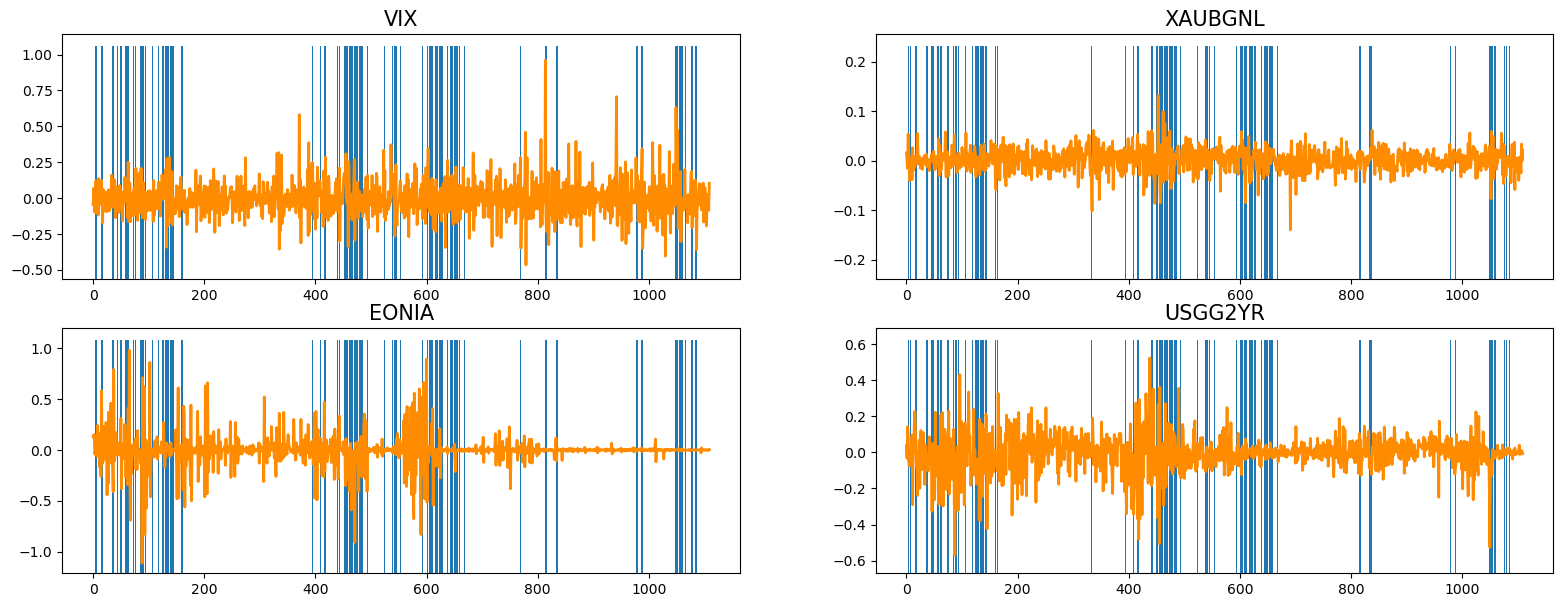
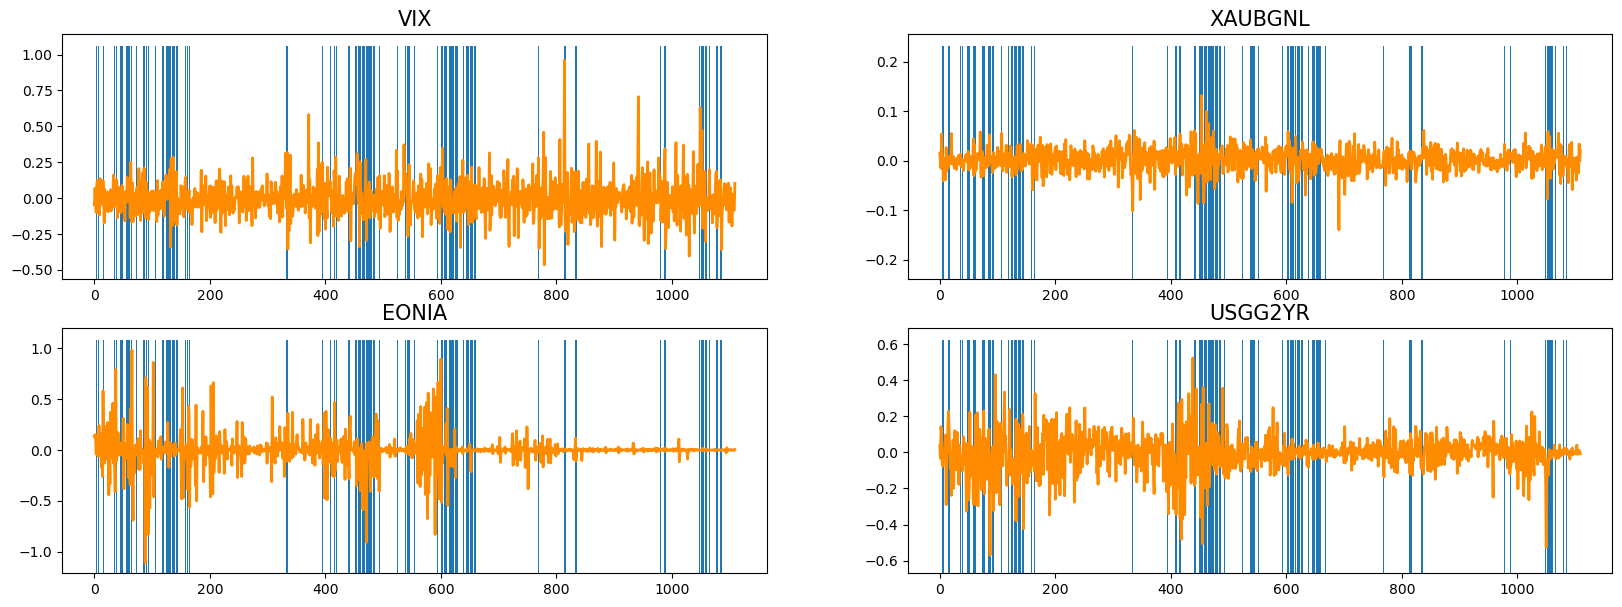
readme

diff --git a/plotter.py b/plotter.py
@@ -105,12 +105,40 @@ for i in range(2):
         axs[i,j].bar(x=anomaly_indices, height=ub, bottom = lb)
         axs[i,j].set_title(feature_name_2, fontsize=15)
         count += 1
-plt.show()
+# plt.show()
 fig.savefig('plots' + os.sep + 'VIX_XAUBGNL_EONIA_USGG2YR_stationary', bbox_inches='tight')
 
+plot_names=['BDIY', 'CRY', 'EONIA', 'GTDEM2Y', 'GTGBP2Y', 'MXBR', 'MXEU', 'MXUS', 'USGG2YR', 'VIX']
 
+fig, axs = plt.subplots(2, 5, figsize = (20,7))
+count = 0
+for i in range(2):
+    for j in range(5):
+        feature_name_2 = plot_names[count]
+        axs[i,j].plot(d[feature_name_2], linewidth = 2, color = "darkorange")
+        anomaly_indices=np.argwhere(y_cat[:,0] == 1)[:,0]
+        lb = np.min(d[feature_name_2])-0.1
+        ub = np.abs(lb) + np.max(d[feature_name_2])+0.1
+        axs[i,j].bar(x=anomaly_indices, height=ub, bottom = lb)
+        axs[i,j].set_title(feature_name_2, fontsize=15)
+        count += 1
+plt.show()
+fig.savefig('plots' + os.sep + 'final_features', bbox_inches='tight')
 
-
+fig, axs = plt.subplots(2, 5, figsize = (20,7))
+count = 0
+for i in range(2):
+    for j in range(5):
+        feature_name_2 = plot_names[count]
+        axs[i,j].plot(df_stat[feature_name_2], linewidth = 1, color = "darkorange")
+        anomaly_indices=np.argwhere(y_cat[:,0] == 1)[:,0]
+        lb = np.min(df_stat[feature_name_2])-0.1
+        ub = np.abs(lb) + np.max(df_stat[feature_name_2])+0.1
+        axs[i,j].bar(x=anomaly_indices, height=ub, bottom = lb)
+        axs[i,j].set_title(feature_name_2, fontsize=15)
+        count += 1
+plt.show()
+fig.savefig('plots' + os.sep + 'final_features_stationary', bbox_inches='tight')
 
 
 

diff --git a/README.md b/README.md
@@ -20,7 +20,16 @@ Feel free to visit [this link](https://github.com/MicheleDiSabato/detecting-abno
 
 The dataset is composed of 42 time series, corresponsing to the time evolution of 42 indices from [Bloomberg](https://www.bloomberg.com/europe):
 ![VIX_XAUBGNL_EONIA_USGG2YR](plots/VIX_XAUBGNL_EONIA_USGG2YR.png)
-The blue lines correspond to risk-off (anomalous) weeks, while the white regions are risk-on (normal) periods. 
+The vertical blue lines correspond to risk-off (anomalous) weeks, while the white regions are risk-on (normal) periods. 
 
 To improve the classification performance, we transformed the data to make it stationary, passing to the logarithm (for non negative indices) or to finite differences. For example, the previous four indices become:
 ![VIX_XAUBGNL_EONIA_USGG2YR_stationary](plots/VIX_XAUBGNL_EONIA_USGG2YR_stationary.png)
+
+We used augmented Dickey Fuller test to check whether stationarity has been reached.
+
+Many features are correlated, some have low variance with repect to the others and some indices will not help to predict anomalies according to a financial perspective. For these reasons, we used Kolmogorov Smirnov test to remove useless indices, i.e. indices which have the same distribution under risk-on and risk-off perdiods.
+
+After an intensive feature selection, we end up with:
+![final_features](plots/final_features.png)
+
+![final_features_stationary](plots/final_features_stationary.png)
